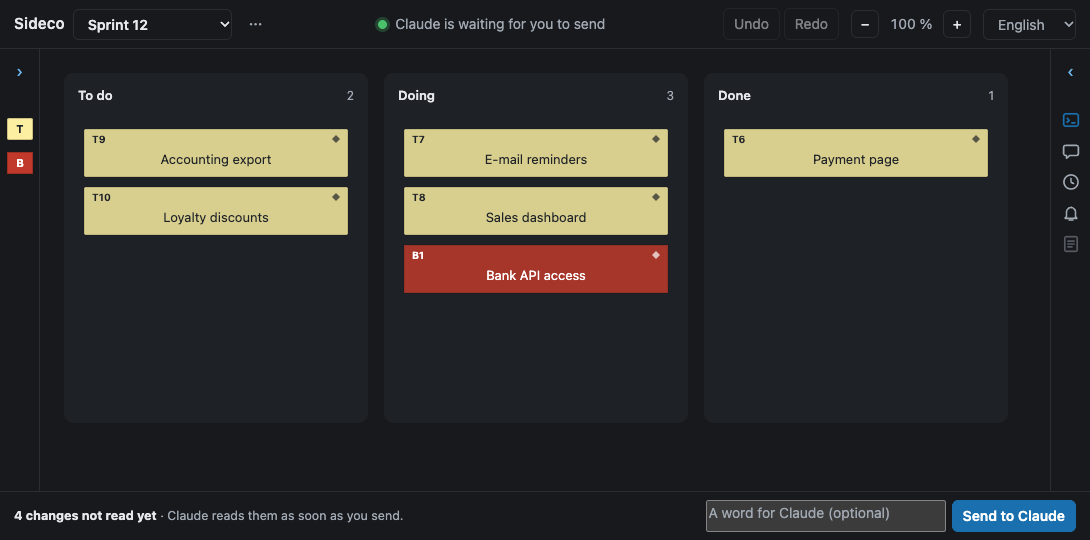
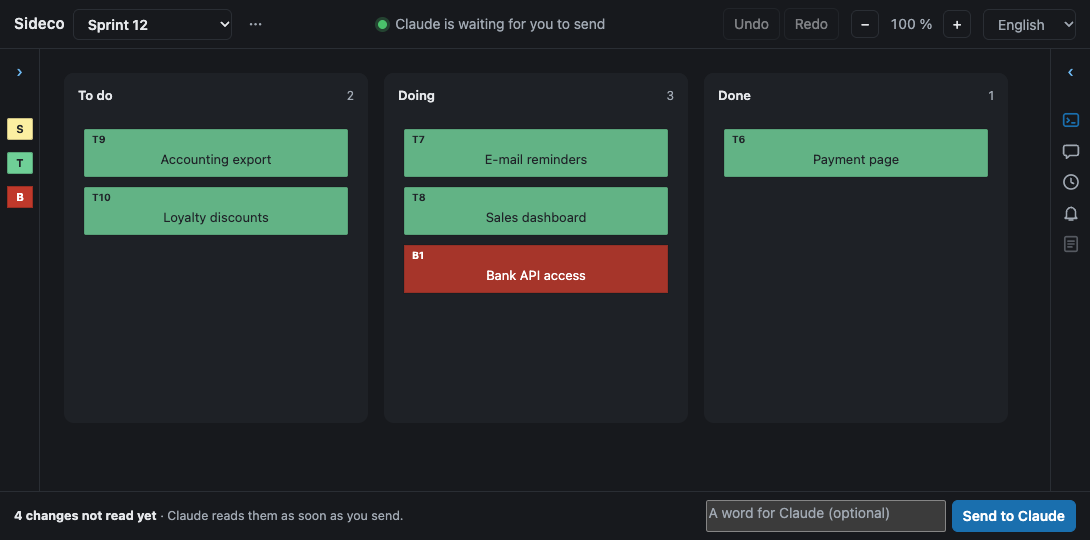
Take the author's mark off the corner of a card (S324): a diamond for Claude and a dot for the human sat at the top right of every card, beside its marks. Who added a card is still said by its tooltip and the name a screen reader hears (added by Claude, added by you). The ≡ of a detail moves to the 

Changed region(s): [[0.0624, 0.237, 0.6239, 0.4444], [0.655, 0.237, 0.9046, 0.3259], [0.0, 0.2667, 0.0312, 0.3852]]

diff --git a/tests/unit/svg.test.ts b/tests/unit/svg.test.ts
@@ -98,9 +98,9 @@ describe("a card", () => {
   const cards = layoutBoard(t.board()).cards;
   const markup = (id: string): string => cardMarkup(cards.find((c) => c.id === id) ?? (cards[0] as never));
 
-  test("tells who added it by shape, not by colour: a diamond for the agent, a dot for the human", () => {
-    expect(markup("E1")).toMatch(/<path class="card-author"/);
-    expect(markup("E3")).toMatch(/<circle class="card-author"/);
+  test("says who added it in its tooltip, with no mark in its corner (S324)", () => {
+    expect(markup("E1")).not.toContain("card-author");
+    expect(markup("E3")).not.toContain("card-author");
     expect(markup("E1")).toContain("<title>E1 · Event · added by Claude</title>");
     expect(markup("E3")).toContain("<title>E3 · Event · added by you</title>");
   });
@@ -126,8 +126,8 @@ describe("a card", () => {
   test("keeps its marks in the strip of its id, where a long last line of label never runs into them", () => {
     expect(markup("R1")).toMatch(/<text class="card-detail" x="[\d.]+" y="14"/);
     const detailX = Number(markup("R1").match(/class="card-detail" x="([\d.]+)"/)?.[1]);
-    const authorX = Number(markup("R1").match(/class="card-author"[^>]*d="M([\d.]+)/)?.[1]);
-    expect(detailX).toBeLessThan(authorX - 4);
+    const notesX = Number(markup("R1").match(/<g class="card-notes"><circle cx="([\d.]+)"/)?.[1]);
+    expect(detailX).toBeLessThan(notesX - 4);
   });
 
   test("is drawn at the origin, so the page can move it without repainting", () => {
@@ -141,23 +141,14 @@ function count(text: string, pattern: string): number {
   return [...text.matchAll(new RegExp(pattern, "g"))].length;
 }
 
-test("on shapes with cut corners, the id and the author mark sit inside the shape", () => {
+test("on shapes with cut corners, the id sits inside the shape", () => {
   const flow = layoutBoard(table(FLOW).board()).cards;
-  const corner = (id: string): { idX: number; authorX: number; w: number } => {
+  const idX = (id: string): number => {
     const c = flow.find((card) => card.id === id);
     if (!c) throw new Error(`no card ${id}`);
-    const markup = cardMarkup(c);
-    return {
-      idX: Number(/class="card-id" x="([\d.]+)"/.exec(markup)?.[1]),
-      authorX: Number(/class="card-author"[^>]* d="M([\d.]+) /.exec(markup)?.[1]),
-      w: c.w,
-    };
+    return Number(/class="card-id" x="([\d.]+)"/.exec(cardMarkup(c))?.[1]);
   };
   // F1 is a box: the corners are free. D1 is a diamond, O1 a pill: 14 px and more are cut away.
-  expect(corner("F1").idX).toBe(8);
-  for (const id of ["D1", "O1"]) {
-    const { idX, authorX, w } = corner(id);
-    expect(idX).toBeGreaterThanOrEqual(22);
-    expect(authorX).toBeLessThanOrEqual(w - 26);
-  }
+  expect(idX("F1")).toBe(8);
+  for (const id of ["D1", "O1"]) expect(idX(id)).toBeGreaterThanOrEqual(22);
 });

diff --git a/src/domain/render/svg.ts b/src/domain/render/svg.ts
@@ -55,7 +55,7 @@ export const SVG_STYLE = `
 .card-notes text { fill: #FFFFFF; font-size: 10px; font-weight: 700; text-anchor: middle; }
 .card-kind { font-size: 11px; text-anchor: middle; }
 .card-outline .card-shape { fill: var(--sideco-bg, #FFFFFF); fill-opacity: 1; stroke: light-dark(var(--tone-light), var(--tone-dark)); stroke-width: 2; }
-.card-outline > text, .card-outline .card-person, .card-outline .card-author { fill: light-dark(var(--tone-light), var(--tone-dark)); opacity: 1; }
+.card-outline > text, .card-outline .card-person { fill: light-dark(var(--tone-light), var(--tone-dark)); opacity: 1; }
 .card-outline .card-label { font-weight: 600; }
 `;
 
@@ -155,7 +155,6 @@ export function cardMarkup(c: Card): string {
     `<title>${esc(tooltip(c))}</title>`,
     shapeMarkup(c),
     `<text class="card-id" x="${8 + inset(c)}" y="14" fill="${esc(c.ink)}">${esc(c.id)}</text>`,
-    authorMark(c),
     wordsMarkup(c),
     labelsMarkup(c),
     c.done ? `<text class="card-done" x="${doneX(c)}" y="14" fill="${esc(c.ink)}">✓</text>` : "",
@@ -274,31 +273,16 @@ function personMark(c: Card): string {
   return `<g class="card-person" fill="${esc(c.ink)}"><circle cx="${x}" cy="11" r="6"/><path d="M${x - 11} 30a11 9 0 0 1 22 0z"/></g>`;
 }
 
-/** Who put the card there: a diamond for the agent, a dot for the human. Shape, not colour. */
-/** Where the author's mark sits, in the strip of the id: left of the notes count when there is one. */
-function authorX(c: Card): number {
-  return (c.notes > 0 ? c.w - 26 : c.w - 12) - inset(c);
-}
-
 /**
  * The marks share the strip of the id rather than the corners under the label,
- * where a long last line ran into them: ✓ just after the id, ≡ just before the
- * author's mark.
+ * where a long last line ran into them: ✓ just after the id, ≡ at the end, left
+ * of the notes count when there is one. Who added the card is said by its
+ * tooltip, not by a mark (S324).
  */
 function doneX(c: Card): number {
   return Math.round(8 + inset(c) + c.id.length * 6.5 + 4);
 }
 
 function detailX(c: Card): number {
-  return c.by === "agent" || c.by === "human"
-    ? authorX(c) - 10
-    : (c.notes > 0 ? c.w - 16 : c.w - 8) - inset(c);
-}
-
-function authorMark(c: Card): string {
-  const x = authorX(c);
-  const ink = `fill="${esc(c.ink)}" opacity="0.7"`;
-  if (c.by === "agent") return `<path class="card-author" ${ink} d="M${x} 6l4 4l-4 4l-4-4z"/>`;
-  if (c.by === "human") return `<circle class="card-author" ${ink} cx="${x}" cy="10" r="3"/>`;
-  return "";
+  return (c.notes > 0 ? c.w - 16 : c.w - 8) - inset(c);
 }

diff --git a/scripts/screenshots.ts b/scripts/screenshots.ts
@@ -51,7 +51,9 @@ add event "Stock reserved" --col 4 --alias reserved
 add hotspot "What if stock runs out?" --col 3
 link @place @placed
 link @placed @reserve
-link @reserve @reserved`,
+link @reserve @reserved
+detail @reserve "One reservation per order line."
+note "Paid before or after the stock?" --on @placed`,
     human: `rename X1 "Partner warehouse"`,
   },
   {
@@ -65,7 +67,8 @@ add outcome "Cart kept for 24 h" --from @other
 note "How many attempts before we block the card?" --on @bank
 focus @bank --why "The retry rule is not settled"`,
     late: `pass "How many attempts before we block the card?"`,
-    human: `reply N1 "Three, then block it for an hour."`,
+    // N2: ids are unique in the project, and the note of ordering takes N1.
+    human: `reply N2 "Three, then block it for an hour."`,
     shot: "page",
     tab: "#tab-notes",
   },
@@ -194,13 +197,13 @@ async function piece(page: Page, board: string, selector: string): Promise<strin
 }
 
 /**
- * The three marks a card can carry, each on a real card of the event storming, enlarged and named:
+ * Three marks a card can carry, each on a real card of the event storming, enlarged and named:
  * at the size of a README a mark on a whole board is a few pixels. Taken while the outline holds.
  */
 async function marks(sharp: Page, scheme: Scheme): Promise<void> {
   const MARKS = [
-    { card: "Place order", says: "A diamond: Claude placed it" },
-    { card: "Partner warehouse", says: "A dot: you touched it" },
+    { card: "Order placed", says: "A number: notes to answer" },
+    { card: "Reserve the stock", says: "≡: a detail to read" },
     { card: "Stock reserved", says: "A blue outline: Claude just changed it" },
   ];
   // One window for the three, centred on each card: the outline widens the box of the card that carries it.
@@ -254,7 +257,7 @@ async function twoWorkshops(scheme: Scheme): Promise<void> {
   await sharp.locator("g.card").first().waitFor();
   await Bun.sleep(800);
   // Written anew for each picture: only what Claude just changed is outlined.
-  await post("agent", `detail R1 "One reservation per order line (${scheme})."\ndetail E2 "Sent to billing (${scheme})."`, "ordering");
+  await post("agent", `detail E2 "Sent to billing (${scheme})."`, "ordering");
   await sharp.locator("g.card.is-fresh").first().waitFor();
   const stormingPng = await sharp.locator("svg.sideco-board").first().screenshot();
   await marks(sharp, scheme);

diff --git a/src/web/messages.ts b/src/web/messages.ts
@@ -290,7 +290,7 @@ export interface Messages {
 }
 
 /** The marks a card can wear, each told in the sheet of keys. */
-export type CardMark = "agent" | "human" | "detail" | "done" | "notes" | "unread" | "changed";
+export type CardMark = "detail" | "done" | "notes" | "unread" | "changed";
 
 /** How a board is laid out, as far as its keys and gestures go. */
 export type SheetKind = "timeline" | "lanes" | "kanban" | "grid" | "graph";
@@ -614,8 +614,6 @@ const en: Messages = {
   withTheMouse: "With the mouse",
   onACard: "On a card",
   marks: {
-    agent: "Added by Claude",
-    human: "Added by you",
     detail: "Has a detail: press ≡ to read it",
     done: "Done",
     notes: "Open notes on it: press the count to read them",
@@ -946,8 +944,6 @@ const fr: Messages = {
   withTheMouse: "À la souris",
   onACard: "Sur une carte",
   marks: {
-    agent: "Ajoutée par Claude",
-    human: "Ajoutée par toi",
     detail: "A un détail : appuie sur ≡ pour le lire",
     done: "Faite",
     notes: "Notes ouvertes sur elle : appuie sur le nombre pour les lire",

diff --git a/tests/e2e/companion.test.ts b/tests/e2e/companion.test.ts
@@ -2339,7 +2339,9 @@ describe("a kanban's own lanes, from the page", () => {
     // What the marks of a card mean, each drawn as the card draws it.
     expect(await sheet.locator("h3", { hasText: "On a card" }).count()).toBe(1);
     const marks = sheet.locator(".mark-list");
-    expect(await marks.locator("dt svg").count()).toBe(7);
+    // Who added a card is said by its tooltip, not by a mark (S324).
+    expect(await marks.locator("dt svg").count()).toBe(5);
+    expect(await marks.locator("dd", { hasText: "Added by" }).count()).toBe(0);
     expect(await marks.locator("dd", { hasText: "Has a detail" }).count()).toBe(1);
     expect(await marks.locator("dd", { hasText: "Changed by Claude since your last visit" }).count()).toBe(1);
     await shot("44-keys-kanban");

diff --git a/src/web/keys-sheet.ts b/src/web/keys-sheet.ts
@@ -22,8 +22,6 @@ function sheetKind(board: Board | undefined): SheetKind {
 
 /** Each mark drawn as the card draws it, in a box of its own; the words beside it say what it means. */
 const MARK_DRAWN: Record<CardMark, string> = {
-  agent: '<path class="card-author" d="M0 -4l4 4l-4 4l-4-4z"/>',
-  human: '<circle class="card-author" r="3"/>',
   detail: '<text class="card-detail" y="4" text-anchor="middle">≡</text>',
   done: '<text class="card-done" y="4" text-anchor="middle">✓</text>',
   notes: '<g class="card-notes"><circle r="8"/><text y="3.5">1</text></g>',

diff --git a/src/web/styles.css b/src/web/styles.css
@@ -2346,10 +2346,6 @@ legend {
   fill: currentColor;
 }
 
-.mark-list .card-author {
-  opacity: 0.7;
-}
-
 .mark-list .card-detail,
 .mark-list .card-done {
   font-size: 13px;

diff --git a/README.md b/README.md
@@ -38,11 +38,11 @@ Claude creates the workspace (a `.sideco/` folder in the project), starts a loca
 
 ## One turn of the loop
 
-You edit the board yourself: add, rename, drag, link, answer in a card's thread, undo. One click on **Send to Claude** hands the turn back. Each card says who did what:
+You edit the board yourself: add, rename, drag, link, answer in a card's thread, undo. One click on **Send to Claude** hands the turn back. Each card shows what waits on it, and what Claude just changed:
 
 <picture>
   <source media="(prefers-color-scheme: dark)" srcset="docs/img/sideco-marks-dark.png">
-  <img alt="Three cards, enlarged. A diamond in the corner: Claude placed it. A dot on the corner: you touched it. A blue outline: Claude just changed it" src="docs/img/sideco-marks.png">
+  <img alt="Three cards, enlarged. A number in the corner: notes to answer. ≡ in the corner: a detail to read. A blue outline: Claude just changed it" src="docs/img/sideco-marks.png">
 </picture>
 
 | When you send, Claude | It reads your changes |

diff --git a/docs/PRD.md b/docs/PRD.md
@@ -104,7 +104,7 @@ Pourquoi D1 pèse le plus : pour un diagramme de séquence simple, Mermaid coût
 | --- | --- | --- |
 | E1 | Passer la main, dans les deux sens | En atelier on se passe le feutre ; ici c'est un événement, et il réveille l'autre |
 | E2 | Identifiants courts et stables sur chaque post-it | « Découpe E3 » se dit pareil au clavier et à l'écran |
-| E3 | Auteur visible sur chaque post-it (losange agent, point humain) | La modélisation croisée se lit d'un coup d'œil, sans dépendre d'une couleur |
+| E3 | Auteur de chaque post-it dit dans son info-bulle ; la marque losange ou point est retirée (S324, 2026-11-22) | La carte reste légère ; qui a posé quoi se lit au survol et par le lecteur d'écran |
 | E4 | Curseur « vu par Claude » | L'humain sait lesquelles de ses modifications l'agent a déjà reçues |
 | E5 | Focus avec raison | Un problème à la fois, désigné par celui qui parle |
 | E6 | Notes épinglées, adressées à l'autre | Répondre dans le dessin plutôt qu'à côté |

diff --git a/docs/guide.fr.md b/docs/guide.fr.md
@@ -6,7 +6,7 @@ Sideco est le compagnon visuel de Claude Code : une page web locale, ouverte à 
 
 ![Un flow dans Sideco : Claude a mis le focus sur une décision et demande combien de tentatives avant de bloquer la carte ; ta réponse attend dans le fil à droite, et la barre du bas lui rend la main](img/sideco-payment.png)
 
-<sub>Source : `bun scripts/screenshots.ts docs/img`, qui photographie la page actuelle. Le losange en haut d'une carte marque une carte posée par Claude, le point une carte touchée par toi.</sub>
+<sub>Source : `bun scripts/screenshots.ts docs/img`, qui photographie la page actuelle. Qui a posé une carte se lit dans son info-bulle.</sub>
 
 **Complète** le terminal, ne le remplace pas : la conversation reste dans Claude Code.
 
